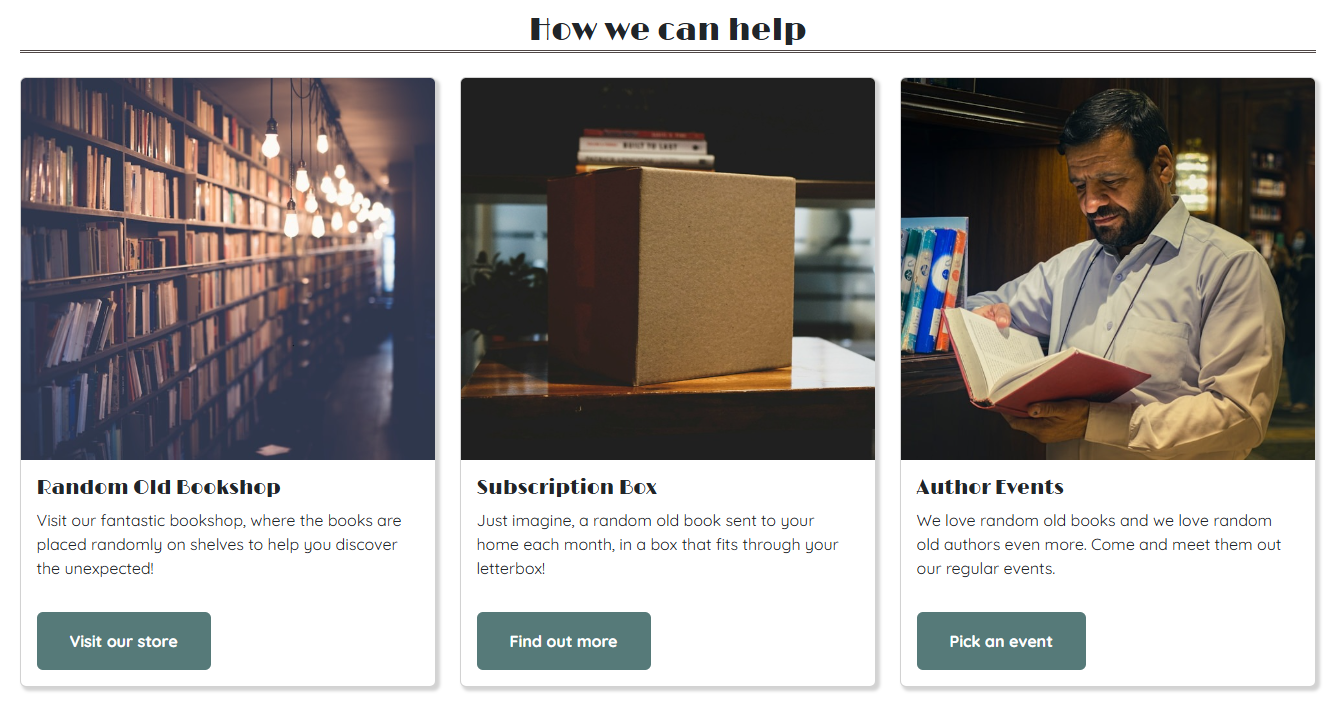
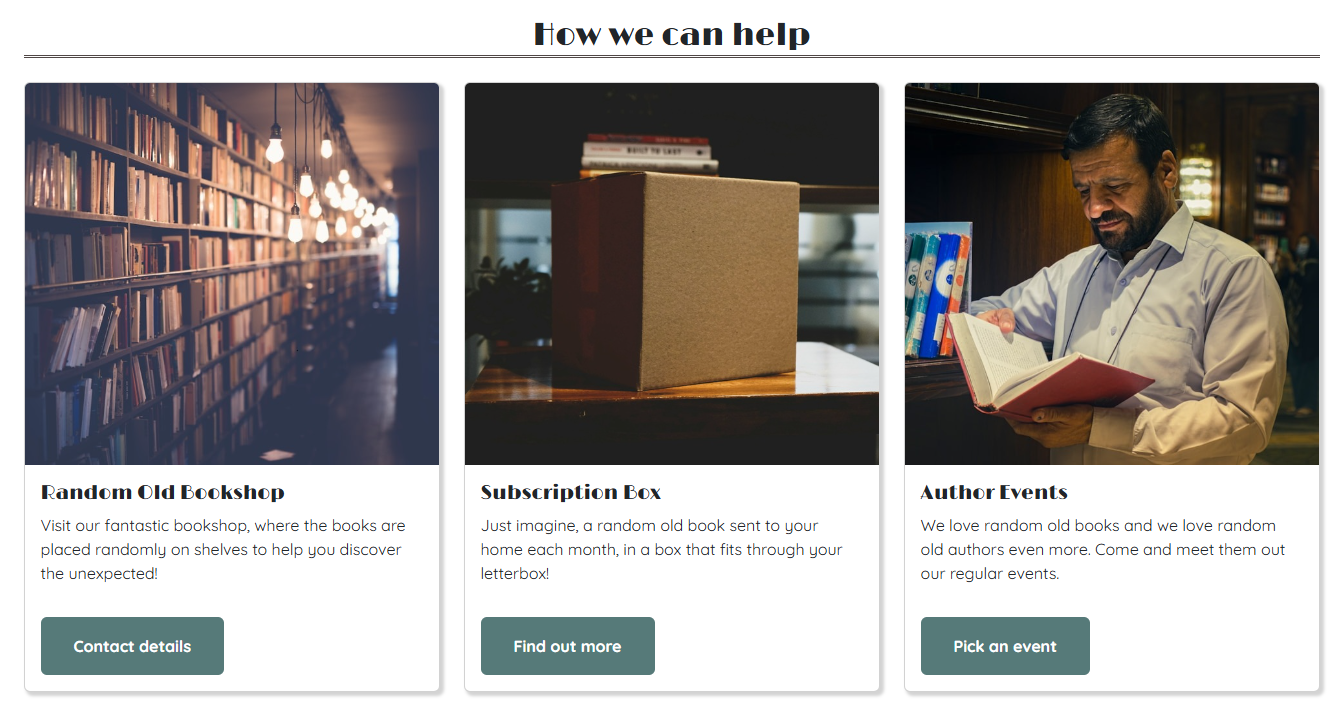
Improve bookshop button text

diff --git a/index.html b/index.html
@@ -192,7 +192,7 @@
                                     <a
                                         href="#contact-details"
                                         class="btn custom-btn"
-                                        >Visit our store</a
+                                        >Contact details</a
                                     >
                                 </div>
                             </div>
